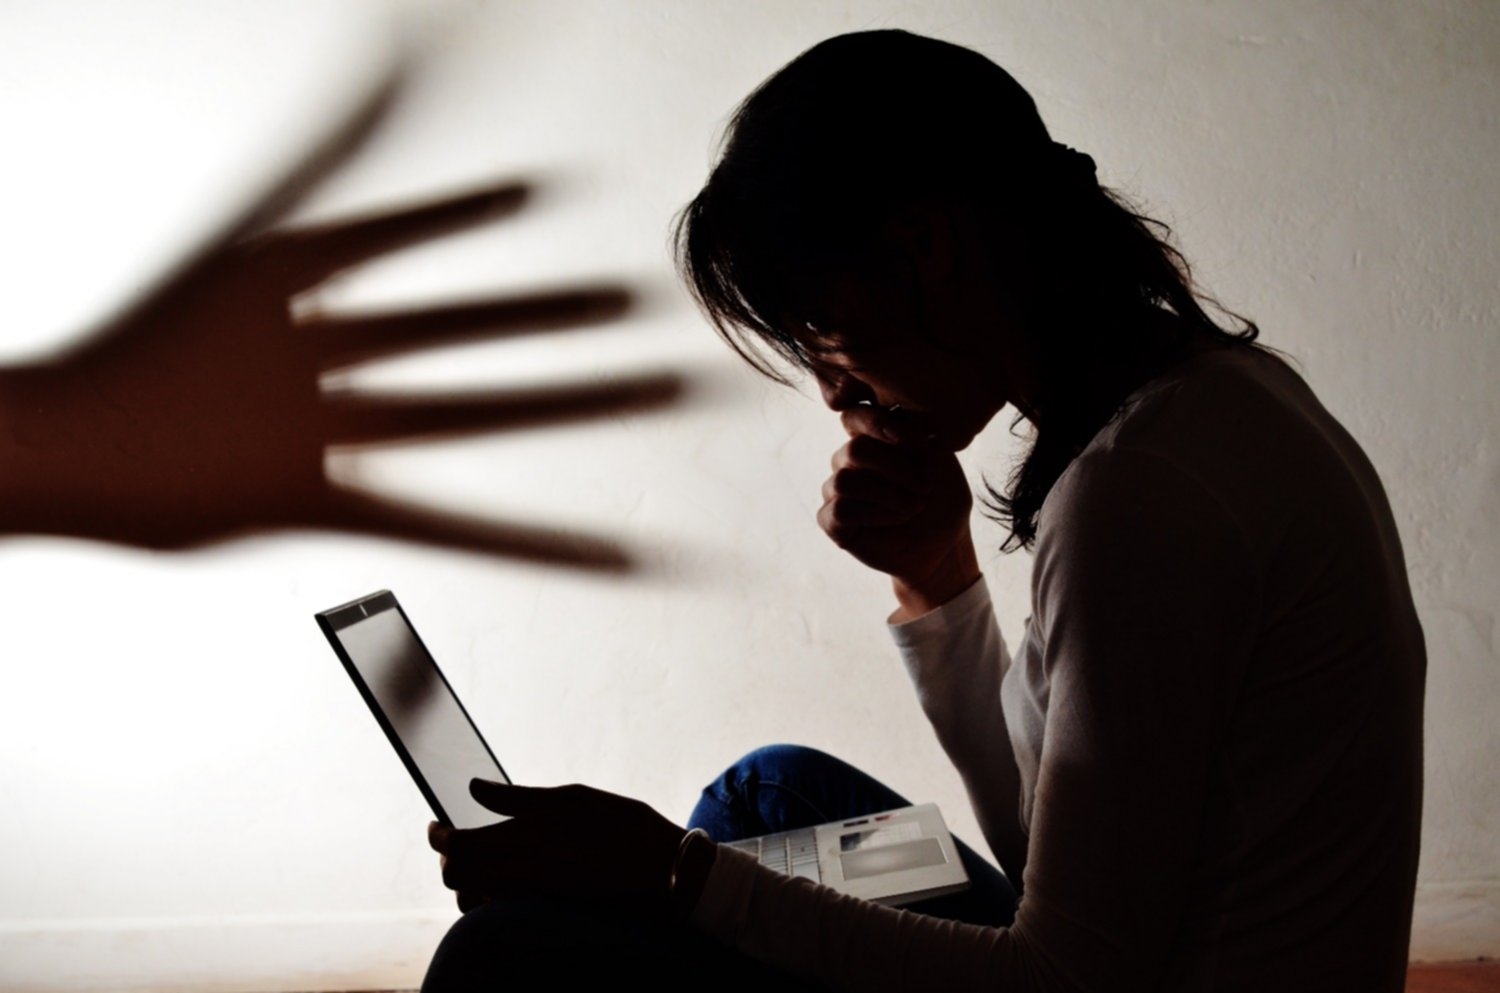
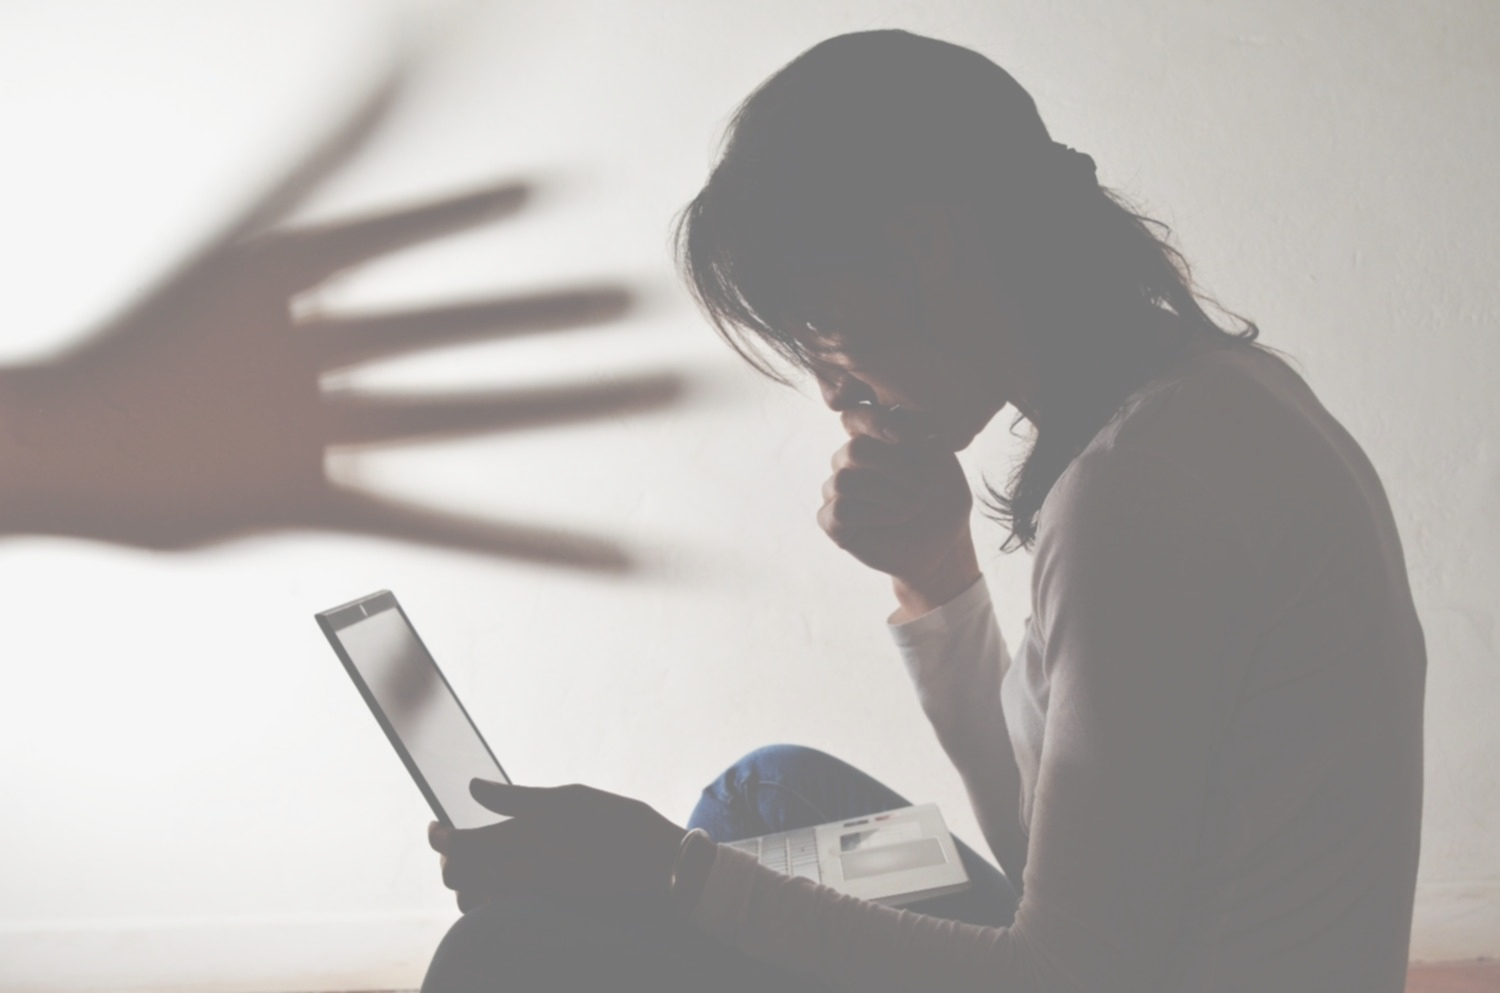
Bulma
Sitio web con el tema acoso virtual

diff --git a/07-CSS Frameworks/index.html b/07-CSS Frameworks/index.html
@@ -11,14 +11,21 @@
     background-image: url('./images/main.jpg');
     background-size: cover;
   }
+  .fondo-negro-semitransparente {
+    background-color: rgba(0, 0, 0, .5);
+    padding: 20px;
+    border-radius: 10px;
+  }
   </style>
 </head>
 <body>
-  <nav class="navbar" role="navigation" aria-label="main navigation">
+  <nav class="navbar is-fixed-top" role="navigation" aria-label="main navigation">
     <div class="container">
       <div class="navbar-brand">
-          <a class="navbar-item" href="https://bulma.io">
-            <img src="https://bulma.io/images/bulma-logo.png" width="112" height="28">
+          <a class="navbar-item" href="#">
+            <h2 class="is-size-4">
+              Libre de Acoso
+            </h2>
           </a>
           <a role="button" class="navbar-burger burger" aria-label="menu" aria-expanded="false" data-target="mainMenu">
             <span aria-hidden="true"></span>
@@ -28,58 +35,82 @@
       </div>
       <div class="navbar-menu" id="mainMenu">
         <div class="navbar-end">
-          <a class="navbar-item">
+          <a class="navbar-item" href="#que-es">
             ¿Qué es?
           </a>
-          <a class="navbar-item">
+          <a class="navbar-item" href="#como-detectarlo">
             ¿Cómo detectarlo?
           </a>
-          <a class="navbar-item">
+          <a class="navbar-item" href="#como-prevenirlo">
             ¿Cómo prevenirlo?
           </a>
-          <a class="navbar-item">
+          <a class="navbar-item" href="#que-hacer">
             ¿Qué hacer si soy víctima?
           </a>
         </div>
       </div>
     </div>
   </nav>
-  <section class="hero is-bold is-fullheight-with-navbar" id="inicio">
+  <section class="hero is-bold is-fullheight" id="inicio">
     <div class="hero-body">
-      <div class="container">
-        <h1 class="title">
+      <div class="container fondo-negro-semitransparente">
+        <h1 class="title has-text-white is-size-1">
           Acoso Virtual
         </h1>
-        <h2 class="subtitle">
-          Lorem ipsum, dolor sit amet consectetur adipisicing elit.
+        <h2 class="subtitle has-text-white is-size-4">
+            El acoso cibernético puede llegar a causar depresión y graves niveles de ansiedad en los adolescentes, lo que eventualmente puede llevar a un suicidio. Estadísticas. México es el 1er país en cuanto a ciberbullying, según datos de la Organización para la Cooperación y Desarrollo Económico.
         </h2>
       </div>
     </div>
   </section>
+  <a id="que-es"></a>
   <section class="hero is-info is-bold is-fullheight">
     <div class="hero-body">
       <div class="container">
-        <h1 class="title">
-          Acoso Virtual
-        </h1>
-        <h2 class="subtitle">
-          Lorem ipsum, dolor sit amet consectetur adipisicing elit.
-        </h2>
+        <div class="columns">
+          <div class="column">
+            <img src="images/que-es.png" alt="Que es el ciberacoso">
+          </div>
+          <div class="column">
+            <h2 class="is-size-3">¿Qué es el acoso virtual ó ciberacoso?</h2>
+            <p>El ciberacoso, también denominado acoso virtual, es el uso de redes sociales para acosar a una persona o grupo de personas, mediante ataques personales, divulgación de información confidencial o falsa entre otros medios. Es decir, se considera ciberacoso, o ciber agresión a todo aquello que se realice a través de los dispositivos electrónicos de comunicación con el fin intencionado de dañar o agredir a una persona o a un grupo.</p>
+          </div>
+        </div>
       </div>
     </div>
   </section>
+  <a id="como-detectarlo"></a>
   <section class="hero is-success is-bold is-fullheight">
     <div class="hero-body">
       <div class="container">
-        <h1 class="title">
-          Acoso Virtual
-        </h1>
-        <h2 class="subtitle">
-          Lorem ipsum, dolor sit amet consectetur adipisicing elit.
-        </h2>
+        <div class="columns">
+          <div class="column">
+            <h2 class="is-size-3">
+              ¿Cómo detectarlo?
+            </h2>
+            <ul>
+              <li>
+                <span class="has-text-weight-bold is-size-5">Cambio de hábitos:</span> si el menor pierde las ganas de hacer actividades en las que antes lo pasaba bien, empieza a bajar su rendimiento escolar, pierde el apetito o le cuesta mantener la atención.
+              </li>
+              <li>
+                <span class="has-text-weight-bold is-size-5">Cambios de humor:</span> susceptibilidad, tristeza repentina, agresividad
+              </li>
+              <li>
+                <span class="has-text-weight-bold is-size-5">Cambios en la forma de relacionarse:</span> si se muestra más introvertido, cambia de amigos o deja de hacer planes en grupo.
+              </li>
+              <li>
+                <span class="has-text-weight-bold is-size-5">Cambios en el lenguaje corporal:</span> se mueve más lento, va encorvado, los hombros van echados hacia delante, no mira a los ojos, lleva la cabeza baja, sufre temblores o mareos, se restriega las manoss...
+              </li>
+            </ul>
+          </div>
+          <div class="column">
+            <img src="images/como-detectarlo.png" alt="Como detectarlo">
+          </div>
+        </div>
       </div>
     </div>
   </section>
+  <a id="como-prevenirlo"></a>
   <section class="hero is-danger is-bold is-fullheight">
     <div class="hero-body">
       <div class="container">
@@ -92,6 +123,7 @@
       </div>
     </div>
   </section>
+  <a id="que-hacer"></a>
   <section class="hero is-warning is-bold is-fullheight">
     <div class="hero-body">
       <div class="container">
